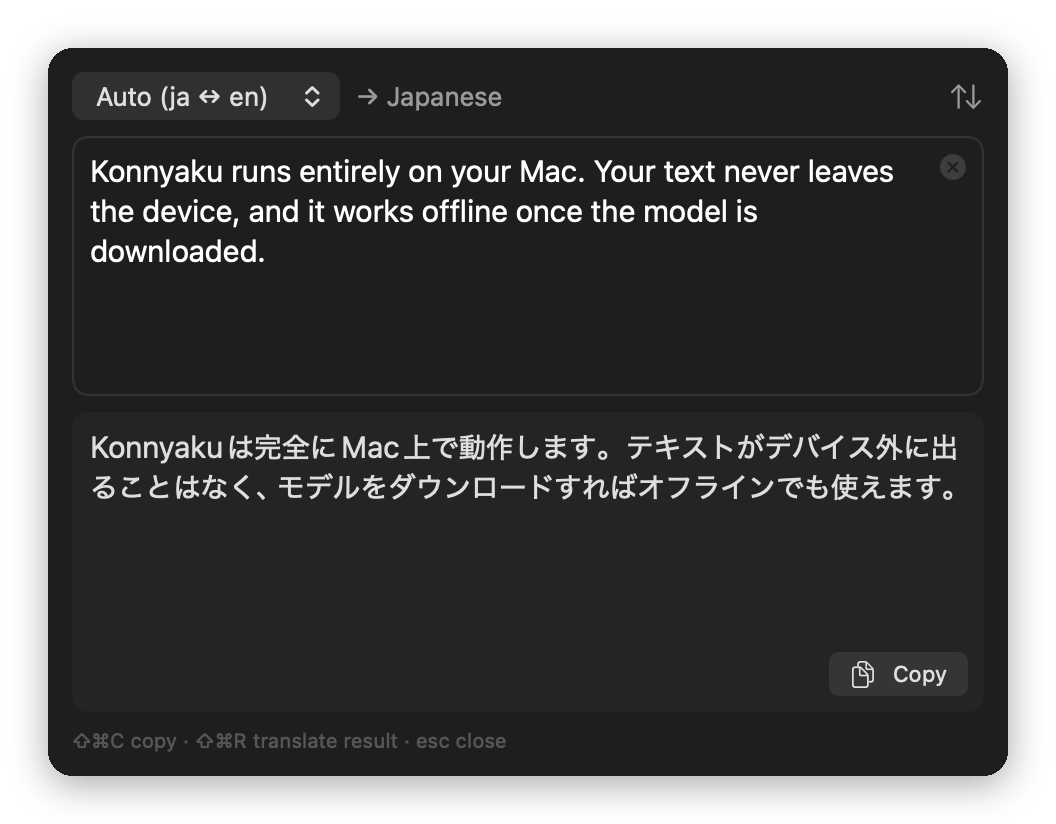
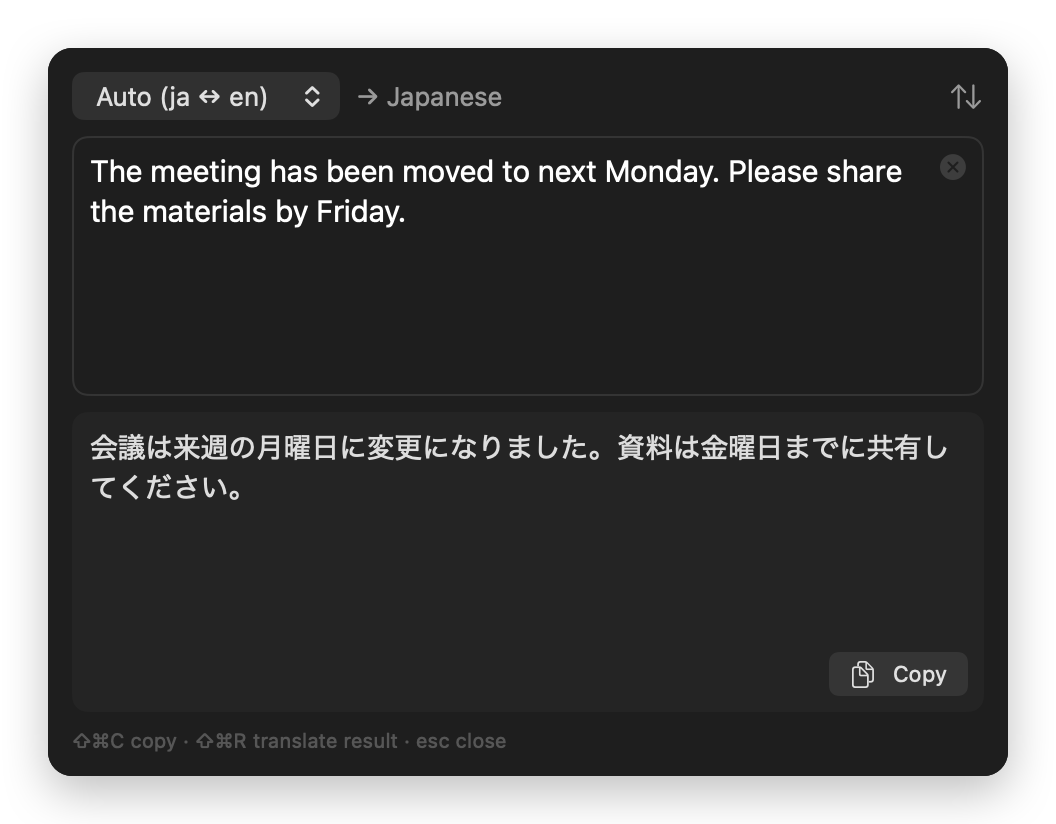
README review fixes, round 5: menu labels, upgrade scoping, CLI sentence, neutral editor screenshots

Changed region(s): [[0.0938, 0.5158, 0.9062, 0.6068], [0.0625, 0.182, 0.8438, 0.3337]]

diff --git a/README.ja.md b/README.ja.md
@@ -60,12 +60,12 @@ macOS 14 以降が必要です。
 <a id="upgrading-from-konjac"></a>
 
 > [!IMPORTANT]
-> **旧名の konjac からアップグレードする場合は、** Konnyaku を初めて開く前に
-> 次の手順を行ってください。
+> **旧名の konjac からアップグレードする場合は、** 次の 2 つの手順を行って
+> ください。
 >
-> 1. konjac を終了し、`konjac.app` を削除します。そうしないと ⌃⌥T を使えるのは
->    片方だけになり（もう片方は何も言わずに失敗します）、サービスの項目が
->    2 つ表示されます。
+> 1. Konnyaku を初めて起動する前に、konjac を終了し、`konjac.app` を削除します。
+>    そうしないと ⌃⌥T を使えるのは片方だけになり（もう片方は何も言わずに
+>    失敗します）、サービスの項目が 2 つ表示されます。
 > 2. Konnyaku を起動したら、システム設定 →「プライバシーとセキュリティ」→
 >    「アクセシビリティ」で Konnyaku を許可し、古い konjac の項目は削除します。
 >    アプリの識別子が変わったため、macOS は新しいアプリとして扱います。
@@ -105,7 +105,8 @@ xattr -dr com.apple.quarantine /Applications/Konnyaku.app
 「Translate with Konnyaku」を設定します。
 
 **メニューバー。** 「Translate Clipboard (⌃⌥T)」「Open Translator…」「Settings…」
-「About Konnyaku」（アプリの表示は英語です）。
+「About Konnyaku」（アプリの表示は英語です）。メニューの項目が翻訳するのは
+クリップボードだけです。⌃⌥T のホットキーは、まず選択範囲を読み取ります。
 
 | 場所 | キー | 動作 |
 | --- | --- | --- |
@@ -130,7 +131,7 @@ xattr -dr com.apple.quarantine /Applications/Konnyaku.app
 - モデルは初回使用時に、固定した Hugging Face のリビジョンから
   `~/Library/Application Support/Konnyaku/` にダウンロードされます。
   標準は 0.8B です。
-- メモリ使用量は、読み込み中で 0.8B が約 0.8 GB、2B が約 2.1 GB です。
+- メモリ使用量は、モデルが読み込まれている間は 0.8B が約 0.8 GB、2B が約 2.1 GB です。
   モデルは最初の翻訳で読み込まれ、5 分間使わないと解放されます。
 - モデルが読み込み済みなら、1 文の翻訳は 1 秒もかかりません。
 
@@ -233,8 +234,8 @@ echo "This system is convenient." | ./konnyaku.py -f plain
 </details>
 
 アプリの標準は 0.8B ですが、CLI の `-m` の標準は `8b` なので、初回実行時に
-そのモデル（数 GB）をダウンロードします。小さいモデルを使うには `-m 0.8b` を指定します。
-モデルは初回実行時に Hugging Face からダウンロードされます。CLI は呼び出す
+そのモデル（数 GB）を Hugging Face からダウンロードします。小さいモデルを
+使うには `-m 0.8b` を指定します。CLI は呼び出す
 たびにモデルを読み込み直すので、1 回あたり数秒かかります。モデルの
 リビジョンは Hugging Face の特定のコミットに固定しています（`konnyaku.py` の
 `MODEL_REVISIONS` を参照）。

diff --git a/README.md b/README.md
@@ -61,11 +61,11 @@ macOS 14 or later.
 <a id="upgrading-from-konjac"></a>
 
 > [!IMPORTANT]
-> **Upgrading from konjac** (the old name)? Do this before you first open
-> Konnyaku:
+> **Upgrading from konjac** (the old name)? Two steps:
 >
-> 1. Quit konjac and delete `konjac.app`. Otherwise only one of the two apps
->    gets ⌃⌥T (the other fails silently) and both show a Services item.
+> 1. Before you first launch Konnyaku, quit konjac and delete `konjac.app`.
+>    Otherwise only one of the two apps gets ⌃⌥T (the other fails silently)
+>    and both show a Services item.
 > 2. After launching Konnyaku, allow it under System Settings → Privacy &
 >    Security → Accessibility, and remove the old konjac entry. The app
 >    identity changed, so macOS treats it as a new app.
@@ -101,7 +101,9 @@ Konnyaku". The translator opens with the text translated. To give it a
 shortcut, use System Settings → Keyboard → Keyboard Shortcuts → Services →
 Text → "Translate with Konnyaku".
 
-**Menu bar.** "Translate Clipboard (⌃⌥T)", Open Translator, Settings, About.
+**Menu bar.** "Translate Clipboard (⌃⌥T)", "Open Translator…", "Settings…",
+"About Konnyaku". The menu item translates the clipboard only. The ⌃⌥T hotkey
+reads the selection first.
 
 | Where | Key | Action |
 | --- | --- | --- |
@@ -227,9 +229,8 @@ echo "This system is convenient." | ./konnyaku.py -f plain
 </details>
 
 Unlike the app, whose default is 0.8B, the CLI's `-m` defaults to `8b`, so
-the first run downloads that model (several GB). Pass `-m 0.8b` for the small
-one. The model is downloaded from Hugging Face on first run. The CLI reloads the
-model on every call, so expect a few seconds per invocation. Model revisions
+the first run downloads that model (several GB) from Hugging Face. Pass
+`-m 0.8b` for the small one. The CLI reloads the model on every call, so expect a few seconds per invocation. Model revisions
 are pinned to specific Hugging Face commits (see `MODEL_REVISIONS` in
 `konnyaku.py`).
 
